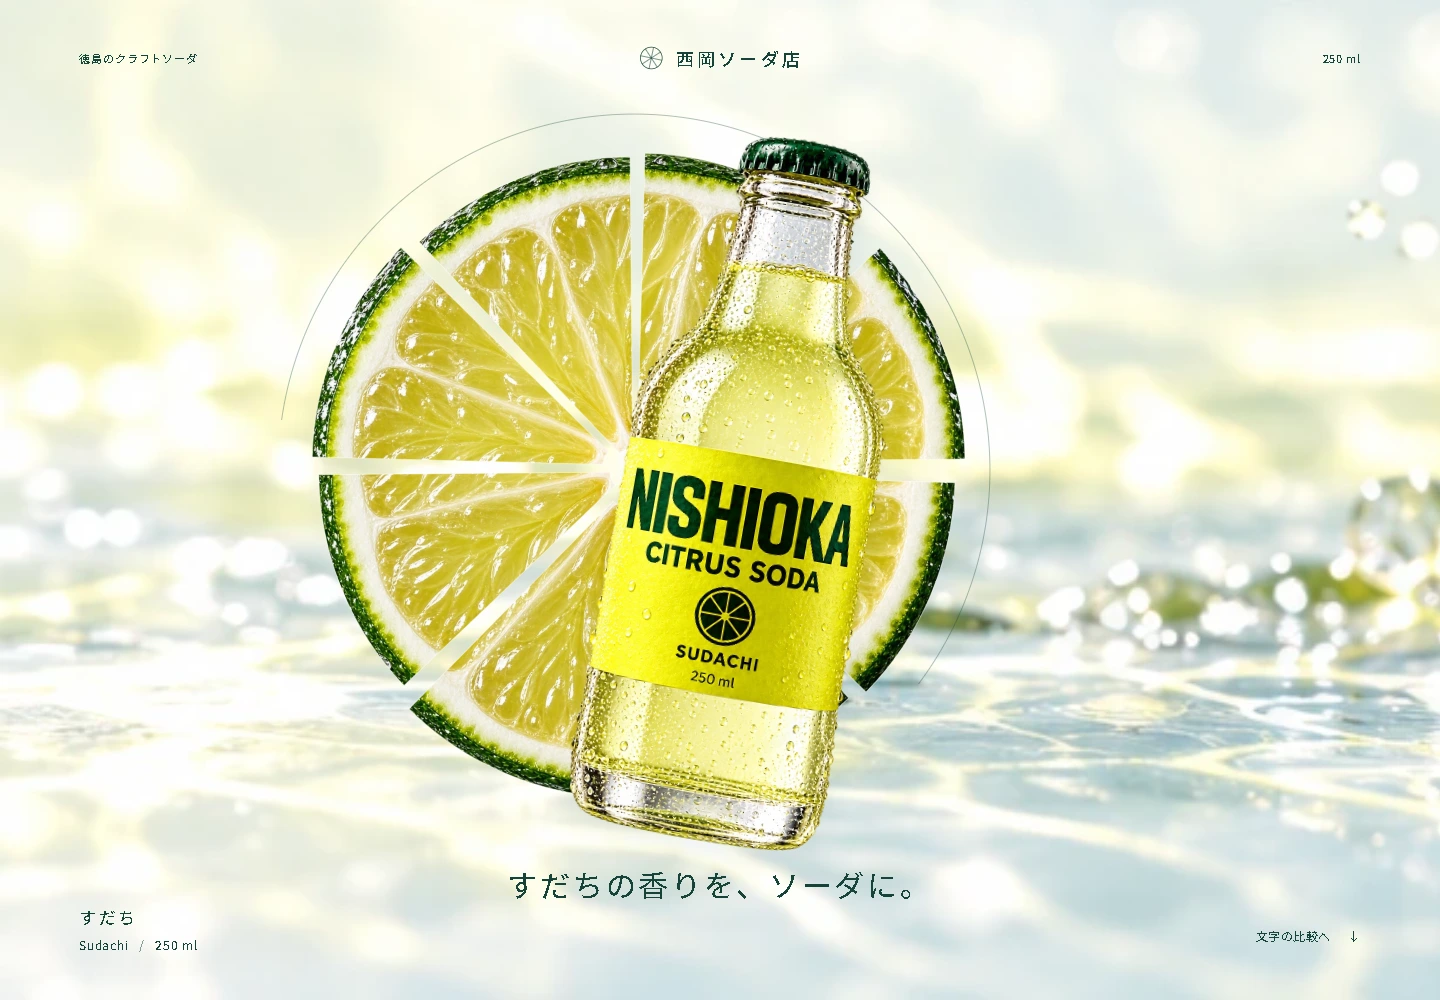
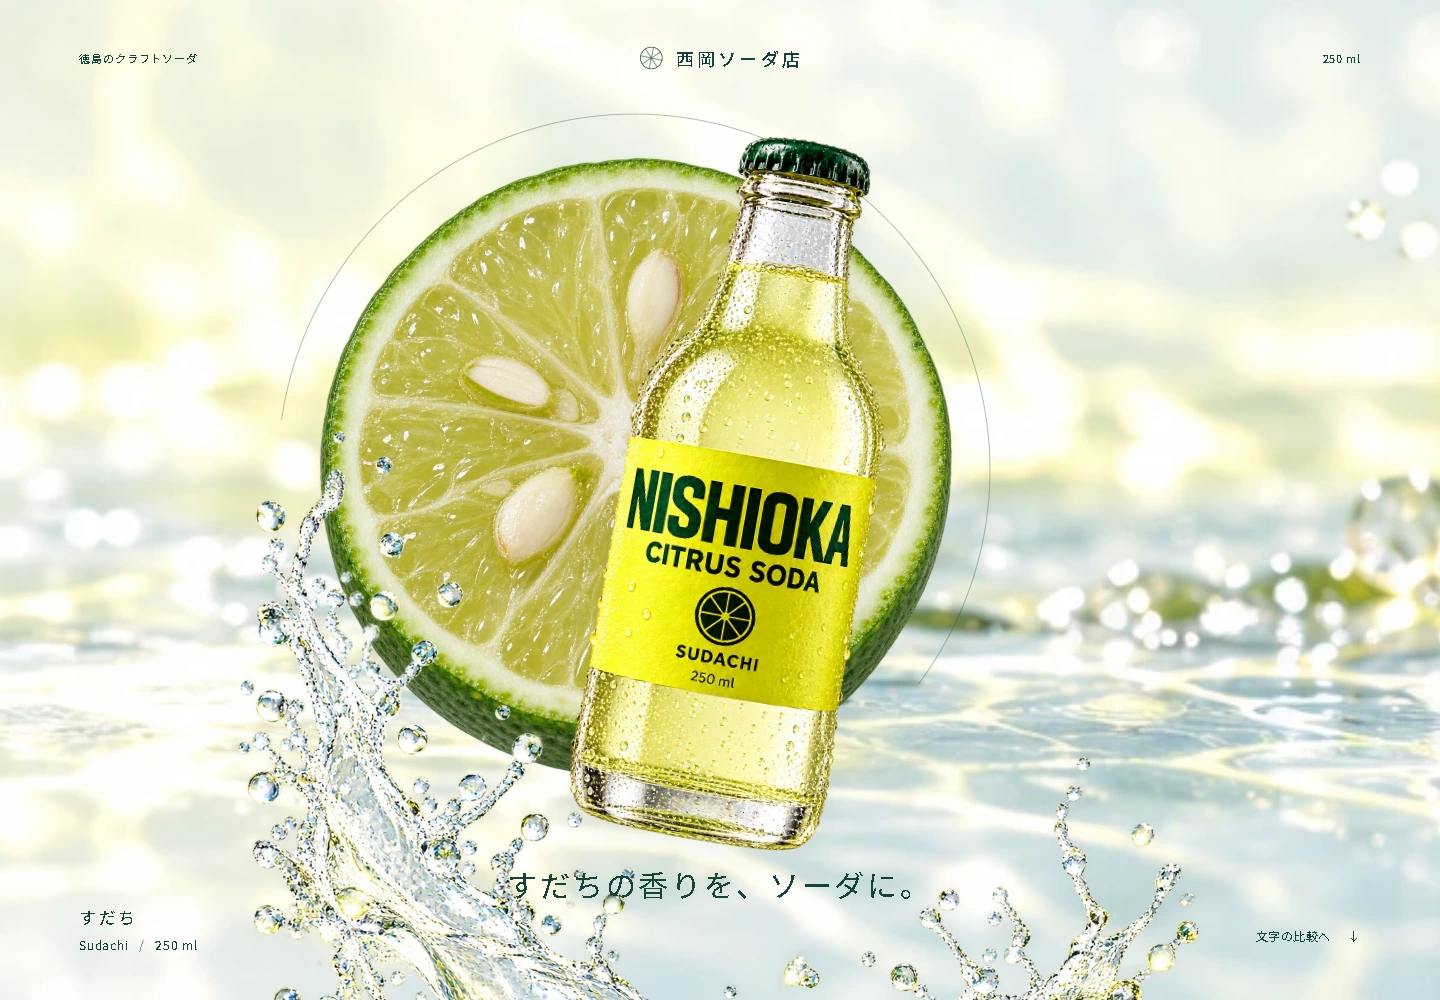
Refine sudachi cut face and restore transparent water splash

diff --git a/nishioka-soda-type-20261027/horizontal.html b/nishioka-soda-type-20261027/horizontal.html
@@ -1,14 +1,15 @@
 <!doctype html>
-<html lang="ja"><head><meta charset="utf-8"><meta name="viewport" content="width=device-width,initial-scale=1"><title>西岡ソーダ店｜B｜ゴシックの横組み</title><meta name="description" content="光と水の写真に柑橘の形を合わせ、言葉と文字の組み方を見直した案です。"><link rel="stylesheet" href="style.css"></head>
+<html lang="ja"><head><meta charset="utf-8"><meta name="viewport" content="width=device-width,initial-scale=1"><title>西岡ソーダ店｜B｜ゴシックの横組み</title><meta name="description" content="光と水の写真に柑橘の形を合わせ、言葉と文字の組み方を見直した案です。"><link rel="stylesheet" href="style.css?v=material1"></head>
 <body class="horizontal"><main>
 <section class="hero" aria-labelledby="hero-title">
   <div class="atmosphere" aria-hidden="true"><img class="light-source" src="assets/light.webp" alt="" width="1536" height="1024"></div>
   <header class="head"><span class="origin">徳島のクラフトソーダ</span><div class="brand"><svg class="brand-mark" viewBox="0 0 80 80" aria-hidden="true"><circle cx="40" cy="40" r="31" fill="none" stroke="currentColor" stroke-width="2"/><path d="M40 9V71M9 40H71M18 18 62 62M18 62 62 18" fill="none" stroke="currentColor" stroke-width="1.5"/></svg><span class="logo">西岡ソーダ店</span></div><span class="capacity">250 ml</span></header>
-  <div class="citrus-art" aria-label="柑橘の断面をひらいた形"><svg viewBox="0 0 800 800" aria-hidden="true"><defs><clipPath id="slice-0"><path d="M393.40 383.25 L292.98 128.32 A292 292 0 0 1 507.02 128.32 L406.60 383.25 A18 18 0 0 0 393.40 383.25 Z"/></clipPath><clipPath id="slice-1"><path d="M407.18 383.49 L516.43 132.22 A292 292 0 0 1 667.78 283.57 L416.51 392.82 A18 18 0 0 0 407.18 383.49 Z"/></clipPath><clipPath id="slice-2"><path d="M416.75 393.40 L671.68 292.98 A292 292 0 0 1 671.68 507.02 L416.75 406.60 A18 18 0 0 0 416.75 393.40 Z"/></clipPath><clipPath id="slice-3"><path d="M416.51 407.18 L667.78 516.43 A292 292 0 0 1 516.43 667.78 L407.18 416.51 A18 18 0 0 0 416.51 407.18 Z"/></clipPath><clipPath id="slice-4"><path d="M406.60 416.75 L507.02 671.68 A292 292 0 0 1 292.98 671.68 L393.40 416.75 A18 18 0 0 0 406.60 416.75 Z"/></clipPath><clipPath id="slice-5"><path d="M392.82 416.51 L283.57 667.78 A292 292 0 0 1 132.22 516.43 L383.49 407.18 A18 18 0 0 0 392.82 416.51 Z"/></clipPath><clipPath id="slice-6"><path d="M383.25 406.60 L128.32 507.02 A292 292 0 0 1 128.32 292.98 L383.25 393.40 A18 18 0 0 0 383.25 406.60 Z"/></clipPath><clipPath id="slice-7"><path d="M383.49 392.82 L132.22 283.57 A292 292 0 0 1 283.57 132.22 L392.82 383.49 A18 18 0 0 0 383.49 392.82 Z"/></clipPath></defs><g transform="translate(0.00 -3.00)"><image href="assets/citrus.webp" x="82" y="82" width="636" height="636" clip-path="url(#slice-0)"/><path d="M393.40 383.25 L292.98 128.32 A292 292 0 0 1 507.02 128.32 L406.60 383.25 A18 18 0 0 0 393.40 383.25 Z" fill="none" stroke="#ffffff8c" stroke-width=".7"/></g><g transform="translate(4.95 -4.95)"><image href="assets/citrus.webp" x="82" y="82" width="636" height="636" clip-path="url(#slice-1)"/><path d="M407.18 383.49 L516.43 132.22 A292 292 0 0 1 667.78 283.57 L416.51 392.82 A18 18 0 0 0 407.18 383.49 Z" fill="none" stroke="#ffffff8c" stroke-width=".7"/></g><g transform="translate(21.00 0.00)"><image href="assets/citrus.webp" x="82" y="82" width="636" height="636" clip-path="url(#slice-2)"/><path d="M416.75 393.40 L671.68 292.98 A292 292 0 0 1 671.68 507.02 L416.75 406.60 A18 18 0 0 0 416.75 393.40 Z" fill="none" stroke="#ffffff8c" stroke-width=".7"/></g><g transform="translate(7.78 7.78)"><image href="assets/citrus.webp" x="82" y="82" width="636" height="636" clip-path="url(#slice-3)"/><path d="M416.51 407.18 L667.78 516.43 A292 292 0 0 1 516.43 667.78 L407.18 416.51 A18 18 0 0 0 416.51 407.18 Z" fill="none" stroke="#ffffff8c" stroke-width=".7"/></g><g transform="translate(0.00 3.00)"><image href="assets/citrus.webp" x="82" y="82" width="636" height="636" clip-path="url(#slice-4)"/><path d="M406.60 416.75 L507.02 671.68 A292 292 0 0 1 292.98 671.68 L393.40 416.75 A18 18 0 0 0 406.60 416.75 Z" fill="none" stroke="#ffffff8c" stroke-width=".7"/></g><g transform="translate(-12.73 12.73)"><image href="assets/citrus.webp" x="82" y="82" width="636" height="636" clip-path="url(#slice-5)"/><path d="M392.82 416.51 L283.57 667.78 A292 292 0 0 1 132.22 516.43 L383.49 407.18 A18 18 0 0 0 392.82 416.51 Z" fill="none" stroke="#ffffff8c" stroke-width=".7"/></g><g transform="translate(-5.00 0.00)"><image href="assets/citrus.webp" x="82" y="82" width="636" height="636" clip-path="url(#slice-6)"/><path d="M383.25 406.60 L128.32 507.02 A292 292 0 0 1 128.32 292.98 L383.25 393.40 A18 18 0 0 0 383.25 406.60 Z" fill="none" stroke="#ffffff8c" stroke-width=".7"/></g><g transform="translate(-8.49 -8.49)"><image href="assets/citrus.webp" x="82" y="82" width="636" height="636" clip-path="url(#slice-7)"/><path d="M383.49 392.82 L132.22 283.57 A292 292 0 0 1 283.57 132.22 L392.82 383.49 A18 18 0 0 0 383.49 392.82 Z" fill="none" stroke="#ffffff8c" stroke-width=".7"/></g><path d="M109.88 232.50 A335 335 0 1 1 572.54 687.15" fill="none" stroke="#174339" stroke-opacity=".35" stroke-width=".8"/></svg></div>
+  <div class="citrus-art" aria-label="半分に切ったすだちの自然な断面"><svg viewBox="0 0 800 800" aria-hidden="true"><image href="assets/citrus-natural-v1.webp" x="82" y="82" width="636" height="636"/><path d="M109.88 232.50 A335 335 0 1 1 572.54 687.15" fill="none" stroke="#174339" stroke-opacity=".35" stroke-width=".8"/></svg></div>
+  <div class="splash-wrap"><img class="splash" src="assets/splash-v1.webp" alt="瓶の後ろから広がる透明な水の飛沫" width="1448" height="1086"></div>
   <div class="bottle-wrap"><img class="bottle" src="assets/bottle.webp" alt="西岡ソーダ店、すだちソーダの架空ボトル" width="1024" height="1536" fetchpriority="high"></div>
   <h1 id="hero-title">すだちの香りを、ソーダに。</h1>
   <div class="flavor"><p class="flavor-name">すだち</p><p class="flavor-meta">Sudachi <span aria-hidden="true">/</span> 250 ml</p></div>
-  <a class="back" href="index.html">文字の比較へ <span aria-hidden="true">↓</span></a>
+  <a class="back" href="index.html?v=material1">文字の比較へ <span aria-hidden="true">↓</span></a>
 </section>
-<section class="review"><p class="study-label">B｜ゴシックの横組み / 見た目の確認</p><h2>言葉を絞り、写真と形の中へ。</h2><p>水に反射する光の写真と、八つにひらいた柑橘の形を合わせました。大きな二行見出しと巨大な英字を外し、商品を伝える一文に絞っています。</p><p>素直なゴシックで一文をつなぎ、途中で大きく改行せずに置きました。英字の商品名は、容量と同じ小さな補足として置いています。</p><p>今回は静止した画面で、文字と構図を確認する案です。</p><div class="review-links"><a href="vertical.html">もう一つの文字案を見る ↗</a><a href="index.html">二つの案を比べる ↗</a></div><p class="fiction">自主制作の架空ブランドです。商品は販売していません。</p></section>
+<section class="review"><p class="study-label">B｜ゴシックの横組み / 見た目の確認</p><h2>言葉を絞り、写真と形の中へ。</h2><p>水に反射する光の写真と、すだちの写真を合わせました。大きな二行見出しと巨大な英字を外し、商品を伝える一文に絞っています。</p><p>素直なゴシックで一文をつなぎ、途中で大きく改行せずに置きました。英字の商品名は、容量と同じ小さな補足として置いています。</p><p>今回は静止した画面で、文字と構図を確認する案です。</p><div class="review-links"><a href="vertical.html?v=material1">もう一つの文字案を見る ↗</a><a href="index.html?v=material1">二つの案を比べる ↗</a></div><p class="fiction">自主制作の架空ブランドです。商品は販売していません。</p></section>
 </main></body></html>

diff --git a/nishioka-soda-type-20261027/vertical.html b/nishioka-soda-type-20261027/vertical.html
@@ -1,14 +1,15 @@
 <!doctype html>
-<html lang="ja"><head><meta charset="utf-8"><meta name="viewport" content="width=device-width,initial-scale=1"><title>西岡ソーダ店｜A｜明朝の縦組み</title><meta name="description" content="光と水の写真に柑橘の形を合わせ、言葉と文字の組み方を見直した案です。"><link rel="stylesheet" href="style.css"></head>
+<html lang="ja"><head><meta charset="utf-8"><meta name="viewport" content="width=device-width,initial-scale=1"><title>西岡ソーダ店｜A｜明朝の縦組み</title><meta name="description" content="光と水の写真に柑橘の形を合わせ、言葉と文字の組み方を見直した案です。"><link rel="stylesheet" href="style.css?v=material1"></head>
 <body class="vertical"><main>
 <section class="hero" aria-labelledby="hero-title">
   <div class="atmosphere" aria-hidden="true"><img class="light-source" src="assets/light.webp" alt="" width="1536" height="1024"></div>
   <header class="head"><span class="origin">徳島のクラフトソーダ</span><div class="brand"><svg class="brand-mark" viewBox="0 0 80 80" aria-hidden="true"><circle cx="40" cy="40" r="31" fill="none" stroke="currentColor" stroke-width="2"/><path d="M40 9V71M9 40H71M18 18 62 62M18 62 62 18" fill="none" stroke="currentColor" stroke-width="1.5"/></svg><span class="logo">西岡ソーダ店</span></div><span class="capacity">250 ml</span></header>
-  <div class="citrus-art" aria-label="柑橘の断面をひらいた形"><svg viewBox="0 0 800 800" aria-hidden="true"><defs><clipPath id="slice-0"><path d="M393.40 383.25 L292.98 128.32 A292 292 0 0 1 507.02 128.32 L406.60 383.25 A18 18 0 0 0 393.40 383.25 Z"/></clipPath><clipPath id="slice-1"><path d="M407.18 383.49 L516.43 132.22 A292 292 0 0 1 667.78 283.57 L416.51 392.82 A18 18 0 0 0 407.18 383.49 Z"/></clipPath><clipPath id="slice-2"><path d="M416.75 393.40 L671.68 292.98 A292 292 0 0 1 671.68 507.02 L416.75 406.60 A18 18 0 0 0 416.75 393.40 Z"/></clipPath><clipPath id="slice-3"><path d="M416.51 407.18 L667.78 516.43 A292 292 0 0 1 516.43 667.78 L407.18 416.51 A18 18 0 0 0 416.51 407.18 Z"/></clipPath><clipPath id="slice-4"><path d="M406.60 416.75 L507.02 671.68 A292 292 0 0 1 292.98 671.68 L393.40 416.75 A18 18 0 0 0 406.60 416.75 Z"/></clipPath><clipPath id="slice-5"><path d="M392.82 416.51 L283.57 667.78 A292 292 0 0 1 132.22 516.43 L383.49 407.18 A18 18 0 0 0 392.82 416.51 Z"/></clipPath><clipPath id="slice-6"><path d="M383.25 406.60 L128.32 507.02 A292 292 0 0 1 128.32 292.98 L383.25 393.40 A18 18 0 0 0 383.25 406.60 Z"/></clipPath><clipPath id="slice-7"><path d="M383.49 392.82 L132.22 283.57 A292 292 0 0 1 283.57 132.22 L392.82 383.49 A18 18 0 0 0 383.49 392.82 Z"/></clipPath></defs><g transform="translate(0.00 -3.00)"><image href="assets/citrus.webp" x="82" y="82" width="636" height="636" clip-path="url(#slice-0)"/><path d="M393.40 383.25 L292.98 128.32 A292 292 0 0 1 507.02 128.32 L406.60 383.25 A18 18 0 0 0 393.40 383.25 Z" fill="none" stroke="#ffffff8c" stroke-width=".7"/></g><g transform="translate(4.95 -4.95)"><image href="assets/citrus.webp" x="82" y="82" width="636" height="636" clip-path="url(#slice-1)"/><path d="M407.18 383.49 L516.43 132.22 A292 292 0 0 1 667.78 283.57 L416.51 392.82 A18 18 0 0 0 407.18 383.49 Z" fill="none" stroke="#ffffff8c" stroke-width=".7"/></g><g transform="translate(21.00 0.00)"><image href="assets/citrus.webp" x="82" y="82" width="636" height="636" clip-path="url(#slice-2)"/><path d="M416.75 393.40 L671.68 292.98 A292 292 0 0 1 671.68 507.02 L416.75 406.60 A18 18 0 0 0 416.75 393.40 Z" fill="none" stroke="#ffffff8c" stroke-width=".7"/></g><g transform="translate(7.78 7.78)"><image href="assets/citrus.webp" x="82" y="82" width="636" height="636" clip-path="url(#slice-3)"/><path d="M416.51 407.18 L667.78 516.43 A292 292 0 0 1 516.43 667.78 L407.18 416.51 A18 18 0 0 0 416.51 407.18 Z" fill="none" stroke="#ffffff8c" stroke-width=".7"/></g><g transform="translate(0.00 3.00)"><image href="assets/citrus.webp" x="82" y="82" width="636" height="636" clip-path="url(#slice-4)"/><path d="M406.60 416.75 L507.02 671.68 A292 292 0 0 1 292.98 671.68 L393.40 416.75 A18 18 0 0 0 406.60 416.75 Z" fill="none" stroke="#ffffff8c" stroke-width=".7"/></g><g transform="translate(-12.73 12.73)"><image href="assets/citrus.webp" x="82" y="82" width="636" height="636" clip-path="url(#slice-5)"/><path d="M392.82 416.51 L283.57 667.78 A292 292 0 0 1 132.22 516.43 L383.49 407.18 A18 18 0 0 0 392.82 416.51 Z" fill="none" stroke="#ffffff8c" stroke-width=".7"/></g><g transform="translate(-5.00 0.00)"><image href="assets/citrus.webp" x="82" y="82" width="636" height="636" clip-path="url(#slice-6)"/><path d="M383.25 406.60 L128.32 507.02 A292 292 0 0 1 128.32 292.98 L383.25 393.40 A18 18 0 0 0 383.25 406.60 Z" fill="none" stroke="#ffffff8c" stroke-width=".7"/></g><g transform="translate(-8.49 -8.49)"><image href="assets/citrus.webp" x="82" y="82" width="636" height="636" clip-path="url(#slice-7)"/><path d="M383.49 392.82 L132.22 283.57 A292 292 0 0 1 283.57 132.22 L392.82 383.49 A18 18 0 0 0 383.49 392.82 Z" fill="none" stroke="#ffffff8c" stroke-width=".7"/></g><path d="M109.88 232.50 A335 335 0 1 1 572.54 687.15" fill="none" stroke="#174339" stroke-opacity=".35" stroke-width=".8"/></svg></div>
+  <div class="citrus-art" aria-label="半分に切ったすだちの自然な断面"><svg viewBox="0 0 800 800" aria-hidden="true"><image href="assets/citrus-natural-v1.webp" x="82" y="82" width="636" height="636"/><path d="M109.88 232.50 A335 335 0 1 1 572.54 687.15" fill="none" stroke="#174339" stroke-opacity=".35" stroke-width=".8"/></svg></div>
+  <div class="splash-wrap"><img class="splash" src="assets/splash-v1.webp" alt="瓶の後ろから広がる透明な水の飛沫" width="1448" height="1086"></div>
   <div class="bottle-wrap"><img class="bottle" src="assets/bottle.webp" alt="西岡ソーダ店、すだちソーダの架空ボトル" width="1024" height="1536" fetchpriority="high"></div>
   <h1 id="hero-title">すだちの香りを、ソーダに。</h1>
   <div class="flavor"><p class="flavor-name">すだち</p><p class="flavor-meta">Sudachi <span aria-hidden="true">/</span> 250 ml</p></div>
-  <a class="back" href="index.html">文字の比較へ <span aria-hidden="true">↓</span></a>
+  <a class="back" href="index.html?v=material1">文字の比較へ <span aria-hidden="true">↓</span></a>
 </section>
-<section class="review"><p class="study-label">A｜明朝の縦組み / 見た目の確認</p><h2>言葉を絞り、写真と形の中へ。</h2><p>水に反射する光の写真と、八つにひらいた柑橘の形を合わせました。大きな二行見出しと巨大な英字を外し、商品を伝える一文に絞っています。</p><p>細い明朝を瓶の高さに沿わせ、縦の一文として置きました。文字と瓶の間に余白を残しています。</p><p>今回は静止した画面で、文字と構図を確認する案です。</p><div class="review-links"><a href="horizontal.html">もう一つの文字案を見る ↗</a><a href="index.html">二つの案を比べる ↗</a></div><p class="fiction">自主制作の架空ブランドです。商品は販売していません。</p></section>
+<section class="review"><p class="study-label">A｜明朝の縦組み / 見た目の確認</p><h2>言葉を絞り、写真と形の中へ。</h2><p>水に反射する光の写真と、すだちの写真を合わせました。大きな二行見出しと巨大な英字を外し、商品を伝える一文に絞っています。</p><p>細い明朝を瓶の高さに沿わせ、縦の一文として置きました。文字と瓶の間に余白を残しています。</p><p>今回は静止した画面で、文字と構図を確認する案です。</p><div class="review-links"><a href="horizontal.html?v=material1">もう一つの文字案を見る ↗</a><a href="index.html?v=material1">二つの案を比べる ↗</a></div><p class="fiction">自主制作の架空ブランドです。商品は販売していません。</p></section>
 </main></body></html>

diff --git a/nishioka-soda-type-20261027/index.html b/nishioka-soda-type-20261027/index.html
@@ -1,1 +1,1 @@
-<!doctype html><html lang="ja"><head><meta charset="utf-8"><meta name="viewport" content="width=device-width,initial-scale=1"><title>西岡ソーダ店｜文字と構図の見直し</title><link rel="stylesheet" href="style.css"><style>.compare-page{max-width:1050px;margin:auto;padding:30px 24px 50px}.compare-page h1{position:static;font-size:25px;font-weight:500;line-height:1.6;letter-spacing:.03em}.lead{max-width:680px;font-size:15px;line-height:1.9}.type-links{display:flex;gap:14px;flex-wrap:wrap;margin:25px 0}.type-links a{border:1px solid var(--line);padding:12px 17px;text-decoration:none;font-size:14px}.phone-comparison{display:grid;grid-template-columns:1fr 1fr;gap:24px;max-width:790px;margin-top:34px}figure{margin:0}figcaption{font-size:14px;margin-bottom:12px}figure img{width:100%;height:auto;display:block;border:1px solid var(--line)}.pc-list{display:flex;gap:22px;margin:27px 0;font-size:14px}.note{font-size:12px;line-height:1.8;margin-top:33px}@media(max-width:600px){.compare-page{padding:24px 18px 35px}.compare-page h1{font-size:22px}.lead{font-size:14px}.type-links{gap:10px}.type-links a{font-size:13px;padding:12px}.phone-comparison{gap:12px}figcaption{font-size:12px}}</style></head><body><main class="compare-page"><p class="study-label">西岡ソーダ店 / 文字と構図の確認</p><h1>光と柑橘を合わせ、<br>言葉の置き方を見直しました。</h1><p class="lead">水に反射する光の写真と、八つにひらいた柑橘の形を合わせています。太い二行見出しと巨大な英字を外し、「すだちの香りを、ソーダに。」の一文に絞りました。</p><p class="lead">背景と商品の配置は共通です。Aは細い明朝の縦組み、Bは素直なゴシックの横組みで、文字の雰囲気と置き方を比べられます。</p><div class="type-links"><a href="vertical.html">A｜縦組みを開く ↗</a><a href="horizontal.html">B｜横組みを開く ↗</a></div><div class="phone-comparison"><figure><figcaption>A｜明朝の縦組み</figcaption><a href="vertical.html"><img src="phone-vertical.webp" alt="明朝を使った縦の一文と、光・瓶・柑橘の構図" width="780" height="1688"></a></figure><figure><figcaption>B｜ゴシックの横組み</figcaption><a href="horizontal.html"><img src="phone-horizontal.webp" alt="ゴシックを使った横の一文と、同じ光・瓶・柑橘の構図" width="780" height="1688"></a></figure></div><div class="pc-list"><a href="pc-vertical.webp">AのPC静止画 ↗</a><a href="pc-horizontal.webp">BのPC静止画 ↗</a></div><p class="note">今回は静止した画面で、文字と構図を確認する案です。自主制作の架空ブランドで、商品は販売していません。</p></main></body></html>
+<!doctype html><html lang="ja"><head><meta charset="utf-8"><meta name="viewport" content="width=device-width,initial-scale=1"><title>西岡ソーダ店｜文字と構図の見直し</title><link rel="stylesheet" href="style.css?v=material1"><style>.compare-page{max-width:1050px;margin:auto;padding:30px 24px 50px}.compare-page h1{position:static;font-size:25px;font-weight:500;line-height:1.6;letter-spacing:.03em}.lead{max-width:680px;font-size:15px;line-height:1.9}.type-links{display:flex;gap:14px;flex-wrap:wrap;margin:25px 0}.type-links a{border:1px solid var(--line);padding:12px 17px;text-decoration:none;font-size:14px}.phone-comparison{display:grid;grid-template-columns:1fr 1fr;gap:24px;max-width:790px;margin-top:34px}figure{margin:0}figcaption{font-size:14px;margin-bottom:12px}figure img{width:100%;height:auto;display:block;border:1px solid var(--line)}.pc-list{display:flex;gap:22px;margin:27px 0;font-size:14px}.note{font-size:12px;line-height:1.8;margin-top:33px}@media(max-width:600px){.compare-page{padding:24px 18px 35px}.compare-page h1{font-size:22px}.lead{font-size:14px}.type-links{gap:10px}.type-links a{font-size:13px;padding:12px}.phone-comparison{gap:12px}figcaption{font-size:12px}}</style></head><body><main class="compare-page"><p class="study-label">西岡ソーダ店 / 文字と構図の確認</p><h1>光とすだちを合わせ、<br>言葉の置き方を見直しました。</h1><p class="lead">水に反射する光の写真と、すだちの写真を合わせています。太い二行見出しと巨大な英字を外し、「すだちの香りを、ソーダに。」の一文に絞りました。</p><p class="lead">背景と商品の配置は共通です。Aは細い明朝の縦組み、Bは素直なゴシックの横組みで、文字の雰囲気と置き方を比べられます。</p><div class="type-links"><a href="vertical.html?v=material1">A｜縦組みを開く ↗</a><a href="horizontal.html?v=material1">B｜横組みを開く ↗</a></div><div class="phone-comparison"><figure><figcaption>A｜明朝の縦組み</figcaption><a href="vertical.html?v=material1"><img src="phone-vertical.webp?v=material1" alt="明朝を使った縦の一文と、光・瓶・柑橘の構図" width="780" height="1688"></a></figure><figure><figcaption>B｜ゴシックの横組み</figcaption><a href="horizontal.html?v=material1"><img src="phone-horizontal.webp?v=material1" alt="ゴシックを使った横の一文と、同じ光・瓶・柑橘の構図" width="780" height="1688"></a></figure></div><div class="pc-list"><a href="pc-vertical.webp?v=material1">AのPC静止画 ↗</a><a href="pc-horizontal.webp?v=material1">BのPC静止画 ↗</a></div><p class="note">今回は静止した画面で、文字と構図を確認する案です。自主制作の架空ブランドで、商品は販売していません。</p></main></body></html>

diff --git a/nishioka-soda-type-20261027/style.css b/nishioka-soda-type-20261027/style.css
@@ -12,6 +12,10 @@
 .brand-mark{width:28px;height:28px;transform:rotate(12deg)}.logo{font-size:18px;font-weight:500;letter-spacing:.17em}
 .citrus-art{position:absolute;left:44%;top:47%;width:min(62vw,850px);aspect-ratio:1;transform:translate(-50%,-50%) rotate(-22deg);z-index:1}
 .citrus-art>svg{display:block;width:100%;height:100%;overflow:visible}
+.splash-wrap{position:absolute;left:42%;top:64%;width:min(69vw,980px);aspect-ratio:4/3;transform:translate(-50%,-50%);z-index:2;pointer-events:none}
+.splash{display:block;width:100%;height:100%;object-fit:contain}
+.horizontal .splash-wrap{left:50%;top:78%}
+.horizontal .splash{transform:scaleX(-1)}
 .bottle-wrap{position:absolute;left:52%;top:49%;height:72%;aspect-ratio:1/2;transform:translate(-50%,-50%) rotate(10deg);z-index:3}
 .bottle{display:block;width:100%;height:100%;object-fit:cover;filter:drop-shadow(6px 12px 8px #4b746b13)}
 h1{font-weight:400;margin:0;position:absolute;z-index:5}
@@ -25,6 +29,8 @@ h1{font-weight:400;margin:0;position:absolute;z-index:5}
  .hero{min-height:830px;max-height:1030px;height:100svh}
  .head{height:94px;padding:0 24px;justify-content:center}.origin,.capacity{display:none}.brand{gap:9px}.brand-mark{width:25px;height:25px}.logo{font-size:17px;letter-spacing:.15em}
  .citrus-art{left:35%;top:56%;width:110%;max-width:515px;transform:translate(-50%,-50%) rotate(-22deg)}
+ .splash-wrap,.horizontal .splash-wrap{left:52%;top:66%;width:146%;max-width:680px}
+ .horizontal .splash{transform:none}
  .bottle-wrap{left:48%;top:59%;height:54%;transform:translate(-50%,-50%) rotate(10deg)}
  .vertical h1{top:151px;right:25px;font-size:21px;line-height:1.45;letter-spacing:.12em}
  .horizontal h1{top:133px;bottom:auto;left:50%;font-size:21px;letter-spacing:.045em;line-height:1.6;max-width:calc(100% - 48px)}
